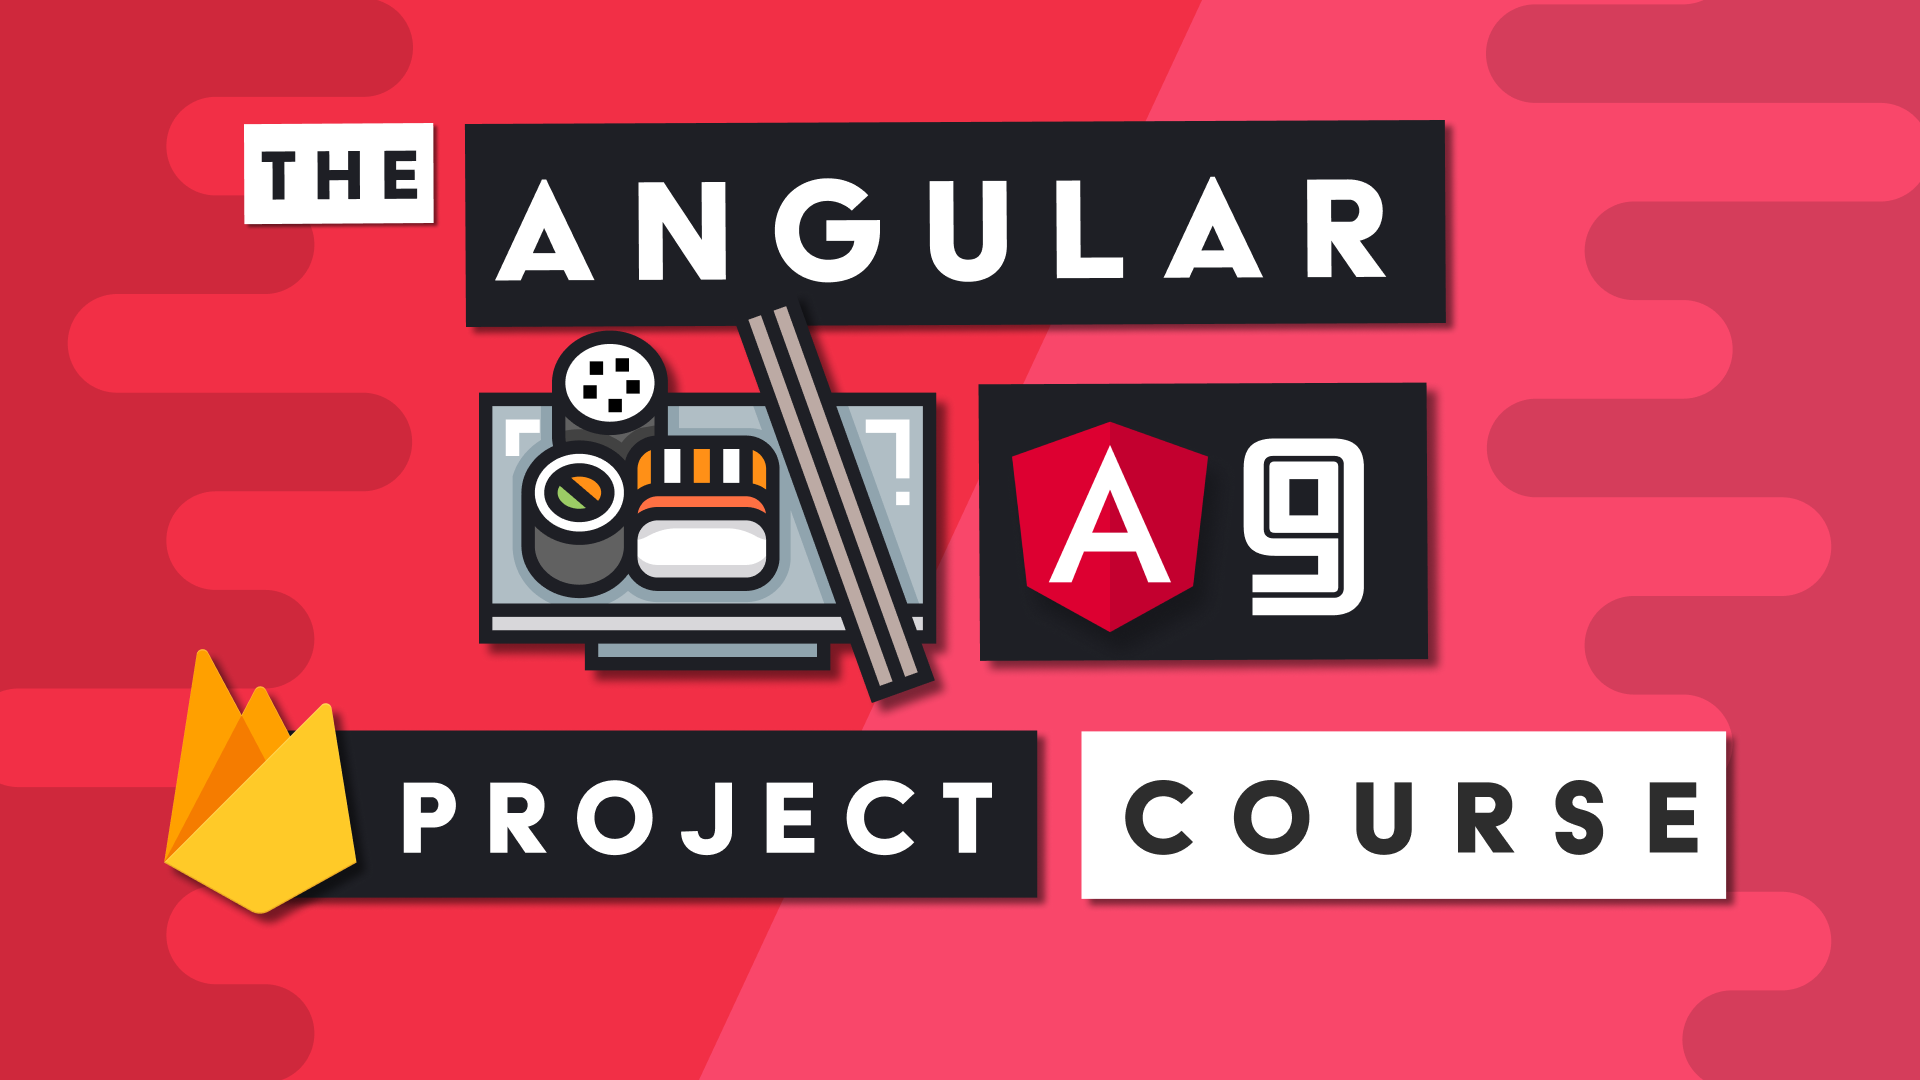
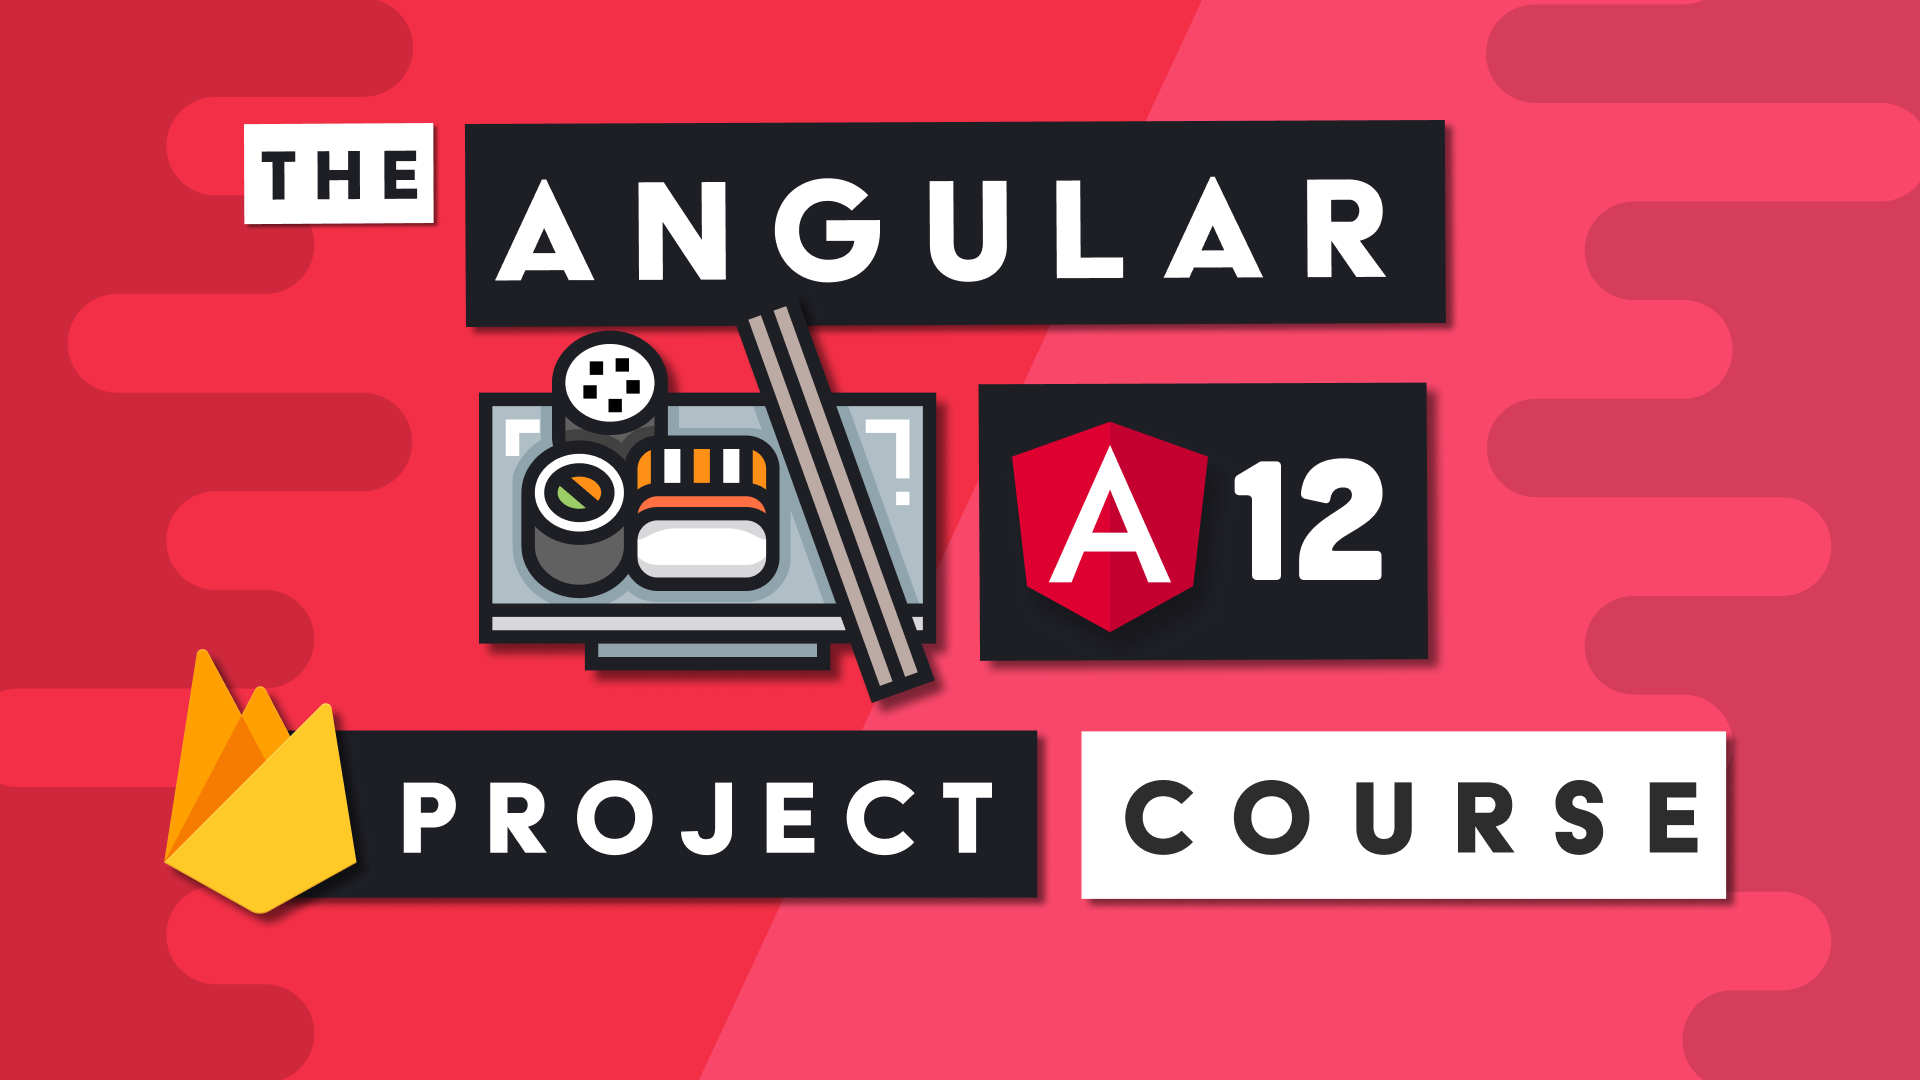
update: Angular course

Changed region(s): [[0.625, 0.3972, 0.7188, 0.5806]]

diff --git a/hugo/content/courses/angular/_index.md b/hugo/content/courses/angular/_index.md
@@ -19,7 +19,8 @@ tags:
 ## 🍱 What will I build?
 
 
-The **Angular Firebase PWA Course** will teach you how to build a complex progressive web app with Angular 9 (ivy), Material Design, and Firebase. It starts from absolute basics and eventually culminates with the deployment of a server-rendered PWA on Google Cloud Run. 
+
+The **Angular Firebase PWA Course** will teach you how to build a complex progressive web app with Angular 12 (ivy), Material Design, and Firebase. It starts from absolute basics and eventually culminates with the deployment of a server-rendered PWA on Google Cloud Run. 
 
 You will build a full-stack [Kanban (看板)](https://en.wikipedia.org/wiki/Kanban) storyboard app inspired by Trello. Authenticated users can create, sort, update, and delete boards with all interaction persisted in Firestore. 
 
@@ -44,6 +45,10 @@ You will build a full-stack [Kanban (看板)](https://en.wikipedia.org/wiki/Kanb
 ### 🤔 Is this Course Right for Me?
 
 This course is intermediate level and designed to expose you to real-world challenges when building PWAs with Angular. It assumes you have at least basic knowledge of web programming and basic skills in JavaScript, HTML, and CSS. It is fast-paced and similar to [my style on YouTube](https://www.youtube.com/channel/UCsBjURrPoezykLs9EqgamOA?), but far more in-depth and comprehensive. 
+
+## Is this Course Updated?
+
+The last code review and update was completed on **May 22nd, 2021** using Angular version `12.0`. The course receives regular updates, especially to address breaking changes in Angular and/or Firebase. 
 
 
 ### 🏎 Test Drive

diff --git a/hugo/content/lessons/using-passwordless-signup-with-firebase-on-the-web/index.md b/hugo/content/lessons/using-passwordless-signup-with-firebase-on-the-web/index.md
@@ -137,7 +137,7 @@ Now let's define a method that will fire off the email when the user clicks the 
 async sendEmailLink() {
   const actionCodeSettings = { ...yourSettings }
   try {
-    await this.afAuth.auth.sendSignInLinkToEmail(
+    await this.afAuth.sendSignInLinkToEmail(
       this.email,
       actionCodeSettings
     );
@@ -163,7 +163,7 @@ The user must return to our site with the same email. Because we saved it to [lo
 ```typescript
   async confirmSignIn(url) {
     try {
-      if (this.afAuth.auth.isSignInWithEmailLink(url)) {
+      if (this.afAuth.isSignInWithEmailLink(url)) {
         let email = window.localStorage.getItem('emailForSignIn');
 
         // If missing email, prompt user for it
@@ -172,7 +172,7 @@ The user must return to our site with the same email. Because we saved it to [lo
         }
 
         // Signin user and remove the email localStorage
-        const result = await this.afAuth.auth.signInWithEmailLink(email, url);
+        const result = await this.afAuth.signInWithEmailLink(email, url);
         window.localStorage.removeItem('emailForSignIn');
       }
     } catch (err) {

diff --git a/hugo/content/courses/angular/kanban-database-service.md b/hugo/content/courses/angular/kanban-database-service.md
@@ -18,7 +18,7 @@ Separate all database logic into a dedicated service.
 import { Injectable } from '@angular/core';
 import { AngularFireAuth } from '@angular/fire/auth';
 import { AngularFirestore } from '@angular/fire/firestore';
-import * as firebase from 'firebase/app';
+import firebase from 'firebase/app;
 import { switchMap, map } from 'rxjs/operators';
 import { Board, Task } from './board.model';
 
@@ -32,7 +32,7 @@ export class BoardService {
    * Creates a new board for the current user
    */
   async createBoard(data: Board) {
-    const user = await this.afAuth.auth.currentUser;
+    const user = await this.afAuth.currentUser;
     return this.db.collection('boards').add({
       ...data,
       uid: user.uid,

diff --git a/hugo/content/courses/angular/user-email-pass.md b/hugo/content/courses/angular/user-email-pass.md
@@ -133,13 +133,13 @@ export class EmailLoginComponent implements OnInit {
 
     try {
       if (this.isLogin) {
-        await this.afAuth.auth.signInWithEmailAndPassword(email, password);
+        await this.afAuth.signInWithEmailAndPassword(email, password);
       }
       if (this.isSignup) {
-        await this.afAuth.auth.createUserWithEmailAndPassword(email, password);
+        await this.afAuth.createUserWithEmailAndPassword(email, password);
       }
       if (this.isPasswordReset) {
-        await this.afAuth.auth.sendPasswordResetEmail(email);
+        await this.afAuth.sendPasswordResetEmail(email);
         this.serverMessage = 'Check your email';
       }
     } catch (err) {

diff --git a/hugo/content/lessons/google-calendar-api-with-firebase/index.md b/hugo/content/lessons/google-calendar-api-with-firebase/index.md
@@ -129,18 +129,18 @@ async login() {
 
   const credential = auth.GoogleAuthProvider.credential(token);
 
-  await this.afAuth.auth.signInAndRetrieveDataWithCredential(credential);
+  await this.afAuth.signInAndRetrieveDataWithCredential(credential);
 
 
   // Alternative approach, use the Firebase login with scopes and make RESTful API calls
   // const provider = new auth.GoogleAuthProvider()
   // provider.addScope('https://www.googleapis.com/auth/calendar');
-  // this.afAuth.auth.signInWithPopup(provider)
+  // this.afAuth.signInWithPopup(provider)
   
 }
 
 logout() {
-  this.afAuth.auth.signOut();
+  this.afAuth.signOut();
 }
 ```
 

diff --git a/hugo/content/lessons/build-group-chat-with-firestore/index.md b/hugo/content/lessons/build-group-chat-with-firestore/index.md
@@ -138,7 +138,7 @@ export class AuthService {
   }
 
   private async oAuthLogin(provider) {
-    const credential = await this.afAuth.auth.signInWithPopup(provider);
+    const credential = await this.afAuth.signInWithPopup(provider);
     return this.updateUserData(credential.user);
   }
 
@@ -156,7 +156,7 @@ export class AuthService {
   }
 
   async signOut() {
-    await this.afAuth.auth.signOut();
+    await this.afAuth.signOut();
     return this.router.navigate(['/']);
   }
 }

diff --git a/hugo/content/lessons/role-based-authorization-with-firestore-nosql-and-angular-5/index.md b/hugo/content/lessons/role-based-authorization-with-firestore-nosql-and-angular-5/index.md
@@ -116,14 +116,14 @@ export class AuthService {
   }
 
   private oAuthLogin(provider) {
-    return this.afAuth.auth.signInWithPopup(provider)
+    return this.afAuth.signInWithPopup(provider)
       .then((credential) => {
         this.updateUserData(credential.user)
       })
   }
 
   signOut() {
-    this.afAuth.auth.signOut()
+    this.afAuth.signOut()
   }
 
   private updateUserData(user) {

diff --git a/hugo/content/courses/firestore-data-modeling/models-social-feed.md b/hugo/content/courses/firestore-data-modeling/models-social-feed.md
@@ -14,7 +14,7 @@ The code below uses this data model to follow/unfollow users & query the most re
 {{< file "js" "firestore.js" >}}
 {{< highlight javascript >}}
 import { db } from './config';
-import * as firebase from 'firebase/app';
+import firebase from 'firebase/app;
 const remove = firebase.firestore.FieldValue.arrayRemove;
 const union = firebase.firestore.FieldValue.arrayUnion;
 

diff --git a/hugo/content/lessons/multi-step-signup-firebase-email-password-auth-angular-reactive-forms/index.md b/hugo/content/lessons/multi-step-signup-firebase-email-password-auth-angular-reactive-forms/index.md
@@ -116,7 +116,7 @@ export class AuthService {
   //// Email/Password Auth ////
   
   emailSignUp(email: string, password: string) {
-    return this.afAuth.auth.createUserWithEmailAndPassword(email, password)
+    return this.afAuth.createUserWithEmailAndPassword(email, password)
       .then(user => {
         return this.setUserDoc(user) // create initial user document
       })

diff --git a/hugo/content/courses/angular/user-google-signin-directive.md b/hugo/content/courses/angular/user-google-signin-directive.md
@@ -28,7 +28,7 @@ The directive listens to the click event on the host element to trigger the sign
 {{< highlight typescript >}}
 import { Directive, HostListener } from '@angular/core';
 import { AngularFireAuth } from '@angular/fire/auth';
-import * as firebase from 'firebase/app';
+import firebase from 'firebase/app;
 
 @Directive({
   selector: '[appGoogleSignin]'

diff --git a/hugo/content/lessons/firebase-performance-quickstart/index.md b/hugo/content/lessons/firebase-performance-quickstart/index.md
@@ -114,7 +114,7 @@ export class LoginComponent {
     trace.start();
 
     try {
-      const credential = await this.afAuth.auth.signInWithEmailAndPassword(email, pass);
+      const credential = await this.afAuth.signInWithEmailAndPassword(email, pass);
 
       trace.putAttribute('verified', `${credential.user.emailVerified}`);
       trace.stop();

diff --git a/hugo/content/lessons/custom-usernames-with-firebase-authentication-and-angular/index.md b/hugo/content/lessons/custom-usernames-with-firebase-authentication-and-angular/index.md
@@ -108,7 +108,7 @@ export class AuthService {
 
    googleLogin() {
      const provider = new firebase.auth.GoogleAuthProvider()
-     return this.afAuth.auth.signInWithPopup(provider)
+     return this.afAuth.signInWithPopup(provider)
        .then(() =>  console.log('successful auth'))
        .catch(error => console.log(error));
    }
